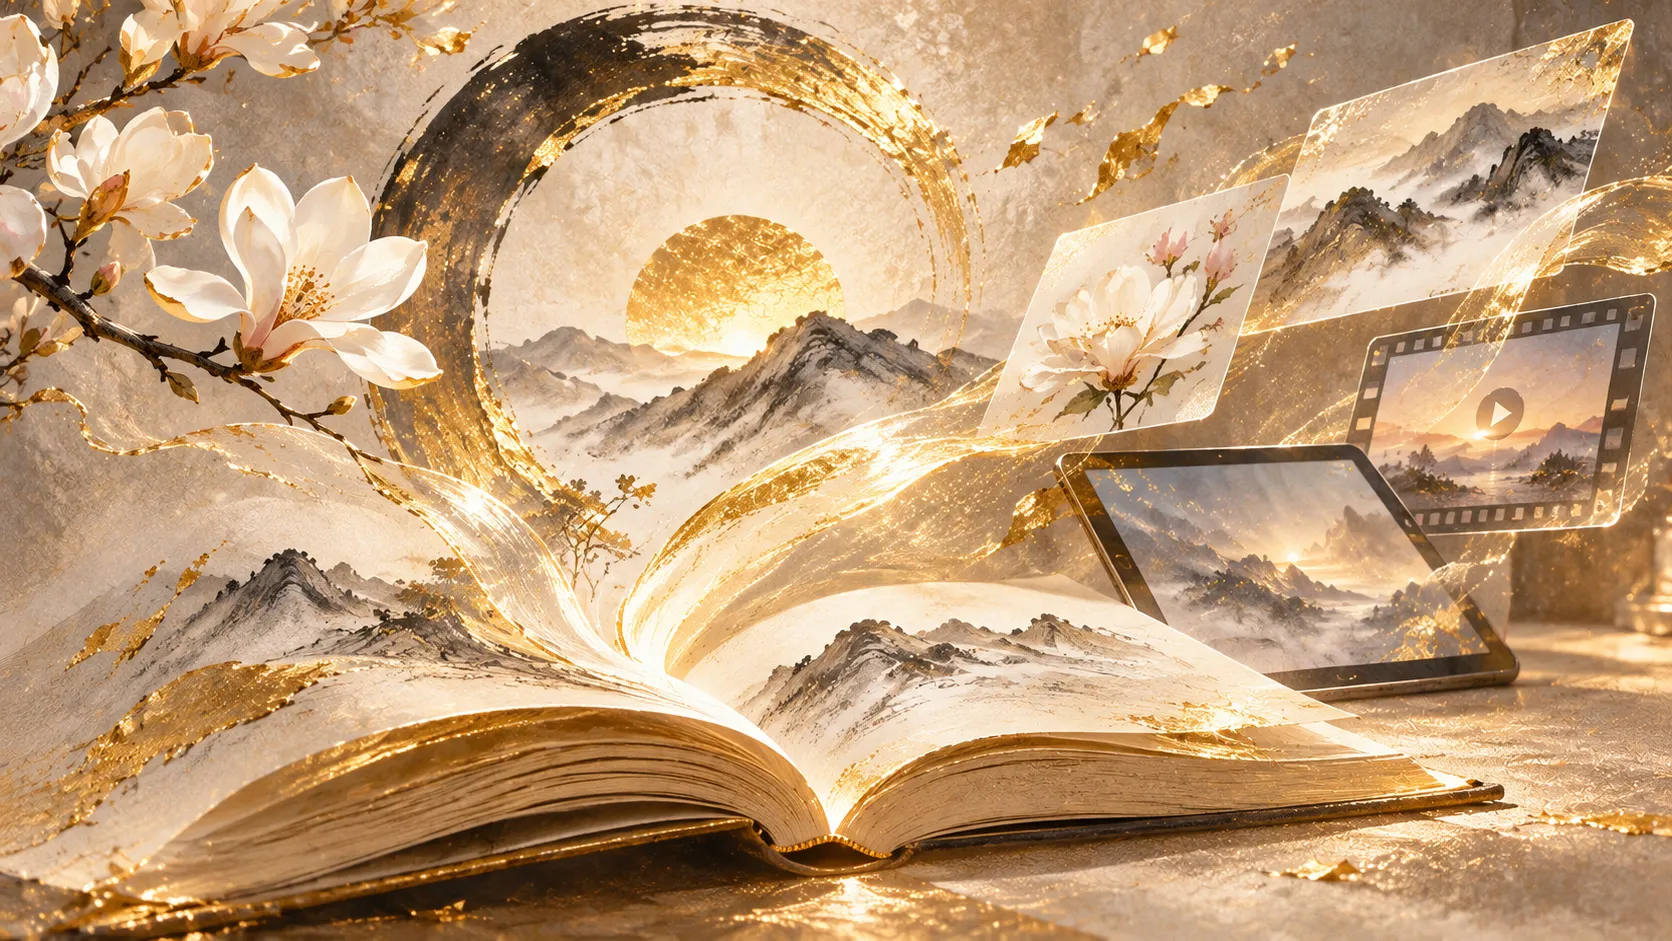
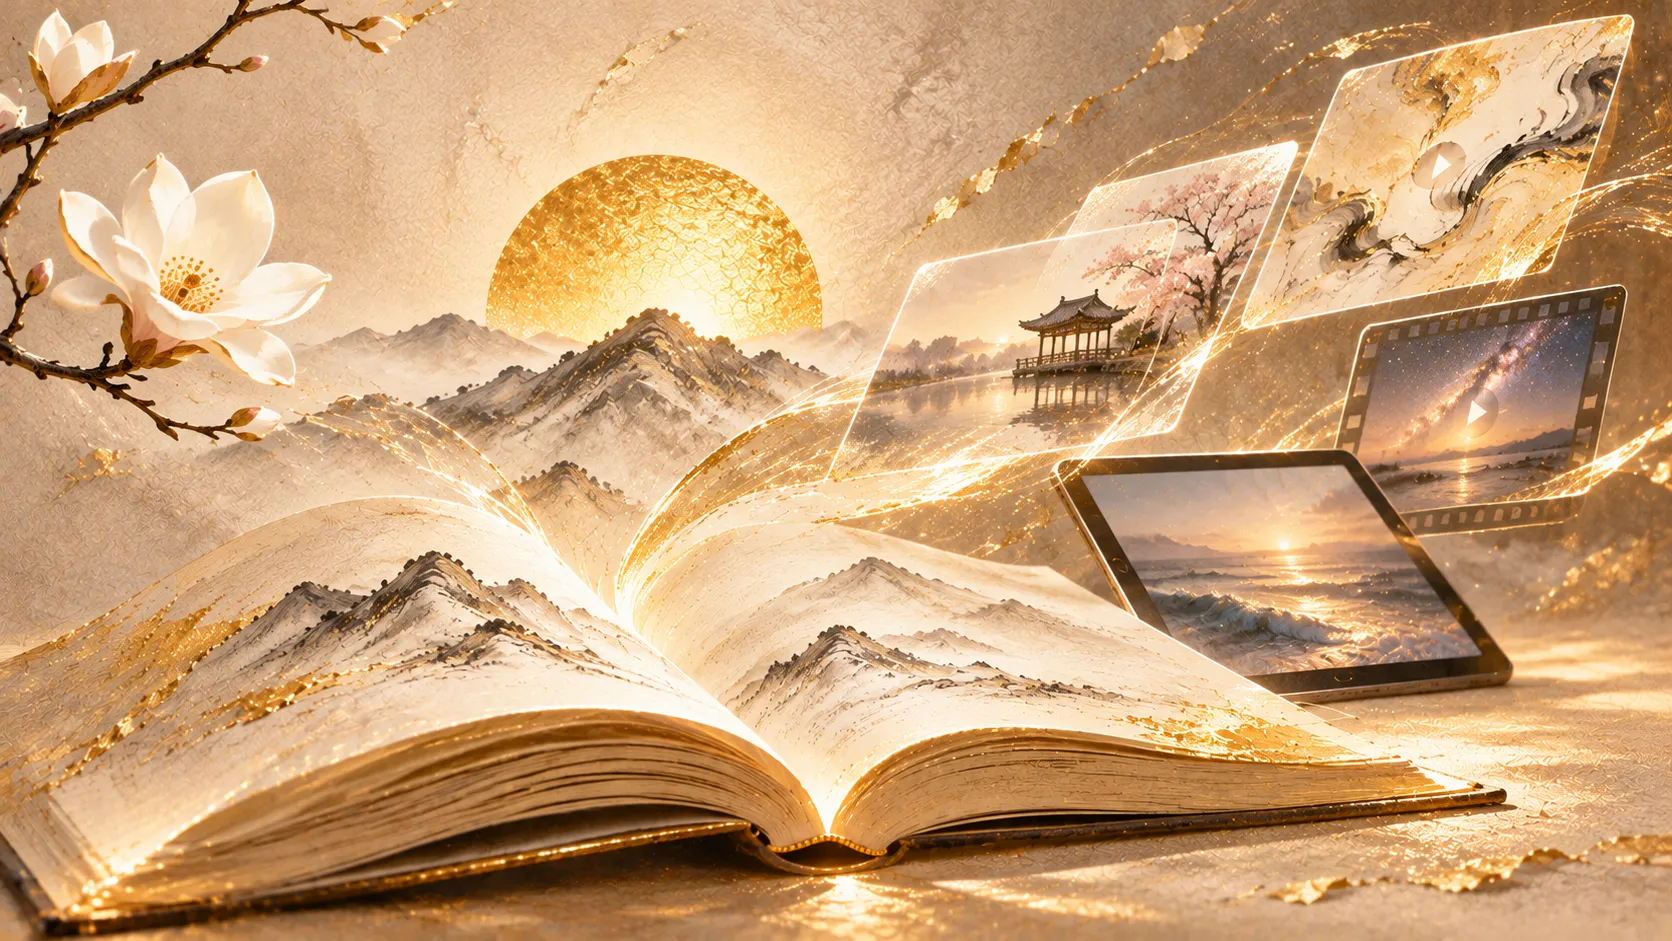
feat(about): integrate philosophy and digital mind coaching sections, update mind-to-creation image

diff --git a/src/app/about/page.tsx b/src/app/about/page.tsx
@@ -455,7 +455,7 @@ export default function AboutPage() {
               <div className="mt-8 sm:mt-10 w-full max-w-[1280px] mx-auto">
                 <div className="relative w-full aspect-[16/9] overflow-hidden rounded-2xl">
                   <Image
-                    src="/images/about/mind-to-creation.webp"
+                    src="/images/about/mind-to-creation.webp?v=2"
                     alt="마음에서 시작된 창작, 삶의 가치로 이어지다 - 자명스쿨"
                     width={1920}
                     height={1080}
@@ -822,62 +822,132 @@ export default function AboutPage() {
         </div>
       </Reveal>
 
-      {/* 2. Philosophy Section */}
-      <section className="py-20 lg:py-24">
+      {/* 2. Philosophy & Digital Mind Coaching Integrated Section */}
+      <section className="py-20 lg:py-24 border-t border-white/5">
         <div className="site-container">
-          <Reveal>
-            <div className="text-center mb-16 px-4">
-              <div className="flex items-center justify-center gap-3 mb-4 sm:mb-5">
-                <span className="w-6 sm:w-8 h-px bg-antiqueGold/40" />
-                <span className="text-antiqueGold tracking-[0.3em] text-xs sm:text-sm font-bold uppercase">
-                  OUR PHILOSOPHY
-                </span>
-                <span className="w-6 sm:w-8 h-px bg-antiqueGold/40" />
-              </div>
-              <h2 className="text-3xl sm:text-4xl md:text-5xl font-display font-bold leading-[1.4] tracking-tight text-white break-keep mb-6">
-                자명스쿨 철학
-              </h2>
-              <div className="w-20 h-1 bg-antiqueGold mx-auto rounded-full mb-8"></div>
-              <p className="text-base md:text-lg text-white/80 font-light leading-[1.75] max-w-3xl mx-auto break-keep">
-                자명스쿨은 단순한 AI 기술 교육이 아닙니다. <br />
-                우리는 <span className="text-antiqueGold font-medium">‘마음’</span>을 이해하고 그것을 콘텐츠로 표현하며 <br />
-                삶과 수익으로 연결하는 교육을 합니다.
-              </p>
-            </div>
-          </Reveal>
-
-          <div className="grid md:grid-cols-3 gap-8">
-            {[
-              {
-                title: "마음을 구조화하는 힘",
-                desc: "추상적인 감정과 무의식을 구체적인 이야기의 틀로 정제합니다.",
-                icon: <Brain className="w-12 h-12 text-[#B89B6A] drop-shadow-[0_0_12px_rgba(184,155,106,0.4)] mx-auto" strokeWidth={1.5} />,
-              },
-              {
-                title: "감정을 콘텐츠로 바꾸는 힘",
-                desc: "내면의 에너지를 AI라는 도구를 통해 세상에 없는 작품으로 창조합니다.",
-                icon: <Palette className="w-12 h-12 text-[#B89B6A] drop-shadow-[0_0_12px_rgba(184,155,106,0.4)] mx-auto" strokeWidth={1.5} />,
-              },
-              {
-                title: "AI로 표현하고 확장하는 힘",
-                desc: "기술을 넘어 나만의 브랜드를 구축하고 영향력을 확장해 나갑니다.",
-                icon: <Rocket className="w-12 h-12 text-[#B89B6A] drop-shadow-[0_0_12px_rgba(184,155,106,0.4)] mx-auto" strokeWidth={1.5} />,
-              },
-            ].map((item, idx) => (
-              <Reveal key={idx} delayMs={idx * 200}>
-                <div className="p-10 rounded-[2rem] border border-white/10 bg-white/[0.03] backdrop-blur-sm hover:border-antiqueGold/40 hover:-translate-y-1 hover:scale-[1.01] hover:bg-white/[0.05] hover:shadow-[0_20px_40px_rgba(184,155,106,0.1)] transition-all duration-500 text-center group">
-                  <div className="mb-6 group-hover:scale-110 group-hover:drop-shadow-[0_0_20px_rgba(184,155,106,0.6)] transition-all duration-500">{item.icon}</div>
-                  <h3 className="text-lg sm:text-xl font-bold mb-3 text-[#B89B6A] transition-colors duration-300">{item.title}</h3>
-                  <p className="text-sm md:text-base text-white/60 leading-[1.7]">{item.desc}</p>
+          <div className="max-w-[1280px] mx-auto space-y-10 sm:space-y-12">
+            {/* 섹션 헤더 및 상단 설명 */}
+            <Reveal>
+              <div className="text-center px-4">
+                <div className="flex items-center justify-center gap-3 mb-4 sm:mb-5">
+                  <span className="w-6 sm:w-8 h-px bg-antiqueGold/40" />
+                  <span className="text-antiqueGold tracking-[0.3em] text-xs sm:text-sm font-bold uppercase">
+                    OUR PHILOSOPHY
+                  </span>
+                  <span className="w-6 sm:w-8 h-px bg-antiqueGold/40" />
                 </div>
-              </Reveal>
-            ))}
+                <h2 className="text-3xl sm:text-4xl md:text-5xl font-display font-bold leading-[1.4] tracking-tight text-white break-keep mb-6">
+                  자명스쿨의 교육 철학
+                </h2>
+                <div className="w-20 h-1 bg-antiqueGold mx-auto rounded-full mb-8" />
+                <div className="text-base md:text-lg text-white/80 font-light leading-[1.75] max-w-3xl mx-auto break-keep space-y-1.5">
+                  <p>자명스쿨은 단순한 AI 기술 교육을 넘어,</p>
+                  <p>마음을 이해하고 그것을 콘텐츠로 표현하며</p>
+                  <p>삶의 성장과 경제적 가치로 연결하는 교육을 합니다.</p>
+                </div>
+              </div>
+            </Reveal>
+
+            {/* 세 가지 교육 철학 카드 (최대 1280px, 균등 배열) */}
+            <div className="grid md:grid-cols-3 gap-6 lg:gap-8">
+              {[
+                {
+                  title: "마음을 구조화하는 힘",
+                  desc: "추상적인 감정과 무의식을 구체적인 이야기의 틀로 정제합니다.",
+                  icon: <Brain className="w-12 h-12 text-[#B89B6A] drop-shadow-[0_0_12px_rgba(184,155,106,0.4)] mx-auto" strokeWidth={1.5} />,
+                },
+                {
+                  title: "감정을 콘텐츠로 바꾸는 힘",
+                  desc: "내면의 에너지를 AI라는 도구를 통해 세상에 없는 작품으로 창조합니다.",
+                  icon: <Palette className="w-12 h-12 text-[#B89B6A] drop-shadow-[0_0_12px_rgba(184,155,106,0.4)] mx-auto" strokeWidth={1.5} />,
+                },
+                {
+                  title: "AI로 표현하고 확장하는 힘",
+                  desc: "기술을 넘어 나만의 브랜드를 구축하고 영향력을 확장해 나갑니다.",
+                  icon: <Rocket className="w-12 h-12 text-[#B89B6A] drop-shadow-[0_0_12px_rgba(184,155,106,0.4)] mx-auto" strokeWidth={1.5} />,
+                },
+              ].map((item, idx) => (
+                <Reveal key={idx} delayMs={idx * 150}>
+                  <div className="h-full p-8 sm:p-10 rounded-[2rem] border border-white/10 bg-white/[0.03] backdrop-blur-sm hover:border-antiqueGold/40 hover:-translate-y-1 hover:scale-[1.01] hover:bg-white/[0.05] hover:shadow-[0_20px_40px_rgba(184,155,106,0.1)] transition-all duration-500 text-center group flex flex-col justify-between break-keep">
+                    <div>
+                      <div className="mb-6 group-hover:scale-110 group-hover:drop-shadow-[0_0_20px_rgba(184,155,106,0.6)] transition-all duration-500">
+                        {item.icon}
+                      </div>
+                      <h3 className="text-lg sm:text-xl font-bold mb-3 text-[#B89B6A] transition-colors duration-300">
+                        {item.title}
+                      </h3>
+                      <p className="text-sm md:text-base text-white/70 leading-[1.7]">
+                        {item.desc}
+                      </p>
+                    </div>
+                  </div>
+                </Reveal>
+              ))}
+            </div>
+
+            {/* 세 카드와 가로형 카드 사이 연결 하향 화살표 */}
+            <div className="flex justify-center text-antiqueGold/60 py-1">
+              <ArrowDown className="w-6 h-6 animate-pulse" />
+            </div>
+
+            {/* 디지털마인드코칭 가로형 강조 카드 */}
+            <Reveal delayMs={300}>
+              <div className="w-full max-w-[1280px] mx-auto py-10 sm:py-12 px-6 sm:px-12 rounded-[2rem] bg-[#141211]/90 backdrop-blur-sm border border-[#B89B6A]/30 shadow-[0_15px_40px_rgba(0,0,0,0.4)] text-center break-keep">
+                {/* 영문 라벨 */}
+                <div className="flex items-center justify-center gap-3 mb-3">
+                  <span className="w-5 h-px bg-antiqueGold/40" />
+                  <span className="text-antiqueGold tracking-[0.3em] text-xs sm:text-sm font-bold uppercase">
+                    DIGITAL MIND COACHING
+                  </span>
+                  <span className="w-5 h-px bg-antiqueGold/40" />
+                </div>
+
+                {/* 카드 메인 제목: 32px */}
+                <h3 className="text-2xl sm:text-3xl md:text-[32px] font-display font-bold leading-[1.3] text-white tracking-tight mb-4">
+                  <span className="bg-gradient-to-br from-[#E2D4BE] via-[#D6C6A8] to-[#B89B6A] bg-clip-text text-transparent">
+                    디지털마인드코칭
+                  </span>
+                </h3>
+
+                {/* 핵심 강조 문구: 24px */}
+                <p className="text-xl sm:text-2xl font-display font-bold text-white/95 leading-[1.4] mb-6">
+                  마음을 이해하고, AI로 표현하며,
+                  <br className="hidden sm:inline" />{" "}
+                  삶을 창작하는 배움의 방식
+                </p>
+
+                {/* 은은한 골드 구분선 */}
+                <div className="w-16 h-px bg-antiqueGold/30 mx-auto mb-6 sm:mb-8" />
+
+                {/* 설명 문구: 18px, 줄간격 1.75, 최대 너비 1100px */}
+                <p className="max-w-[1100px] mx-auto text-base md:text-lg text-white/80 font-light leading-[1.75]">
+                  디지털마인드코칭은 자기이해와 마음공부를 바탕으로 AI 및 디지털 창작 도구를 활용하여 자신의 감정, 생각, 재능과 가능성을 구체적인 결과물로 표현하고, 이를 자기성장과 삶의 실천으로 연결하는 교육 및 코칭 방법입니다.
+                </p>
+              </div>
+            </Reveal>
+
+            {/* 가로형 카드 외부 하단 마무리 */}
+            <Reveal delayMs={400}>
+              <div className="pt-4 sm:pt-6 text-center break-keep space-y-6 sm:space-y-8 max-w-[1100px] mx-auto">
+                {/* 일반 본문 설명: 18px */}
+                <div className="space-y-2 text-base md:text-lg text-white/80 font-light leading-[1.75]">
+                  <p>자명스쿨은 마음공부와 AI 기술을 별개의 영역으로 바라보지 않습니다.</p>
+                  <p>창작을 통해 내면을 표현하고, 표현된 결과물을 통해 다시 자신을 이해하는 선순환을 추구합니다.</p>
+                </div>
+
+                {/* 최종 강조 문구: 24px, 붓글씨 서체, 골드 그라데이션 */}
+                <div className="pt-2">
+                  <h4 className="text-xl sm:text-2xl font-display font-bold leading-[1.4] tracking-tight">
+                    <span className="bg-gradient-to-br from-[#E2D4BE] via-[#D6C6A8] to-[#B89B6A] bg-clip-text text-transparent">
+                      자신의 이야기를 작품으로,
+                      <br />
+                      자신의 가능성을 삶의 가치로.
+                    </span>
+                  </h4>
+                </div>
+              </div>
+            </Reveal>
           </div>
-          <Reveal delayMs={600}>
-            <p className="mt-16 text-center text-base md:text-lg text-antiqueGold/80 italic leading-[1.75]">
-              이 3가지를 통해 누구나 자신의 이야기를 브랜드로 만들 수 있도록 돕습니다.
-            </p>
-          </Reveal>
         </div>
       </section>
 
@@ -1111,38 +1181,14 @@ export default function AboutPage() {
             </div>
           </Reveal>
 
-          {/* Diagram Bottom Core Copy & Digital Mind Coaching Definition */}
+          {/* Diagram Bottom Core Copy */}
           <Reveal delayMs={350}>
-            <div className="max-w-3xl mx-auto space-y-8 text-center break-keep">
-              {/* Sub-label & Title */}
-              <div className="space-y-3">
-                <span className="text-antiqueGold tracking-[0.3em] text-xs sm:text-sm font-bold uppercase block">
-                  DIGITAL MIND COACHING
-                </span>
-                <h3 className="text-xl sm:text-2xl font-display font-bold text-white tracking-tight leading-[1.4]">
-                  디지털마인드코칭이란?
-                </h3>
-              </div>
-
-              {/* Main Emphasized Quote */}
-              <div className="p-6 sm:p-8 rounded-2xl bg-[#141211]/80 backdrop-blur-sm border border-[#B89B6A]/25 shadow-lg">
-                <p className="text-xl sm:text-2xl font-display font-bold text-transparent bg-clip-text bg-gradient-to-r from-[#E2D4BE] via-[#D6C6A8] to-[#B89B6A] leading-[1.4]">
-                  마음을 이해하고, AI로 표현하며, 삶을 창작하는 배움의 방식입니다.
-                </p>
-              </div>
-
-              {/* Core Definition Body Paragraphs */}
-              <div className="space-y-4 text-white/80 text-base md:text-lg leading-[1.75] font-light text-left sm:text-center">
-                <p>
-                  디지털마인드코칭은 자기이해와 마음공부를 바탕으로 AI 및 디지털 창작 도구를 활용하여 자신의 감정, 생각, 재능, 가능성을 구체적인 결과물로 표현하고, 이를 자기성장과 삶의 실천으로 연결하는 교육 및 코칭 방법입니다.
-                </p>
-                <p>
-                  단순히 기술을 익히는 것을 넘어, 나를 발견하고 나만의 이야기를 만들며, 자신이 원하는 삶의 방향을 설계하도록 돕습니다.
-                </p>
-                <p className="font-normal text-white/90 pt-1">
-                  자명스쿨은 마음공부와 AI 기술을 별개의 영역으로 바라보지 않습니다. 창작을 통해 내면을 표현하고, 표현된 결과물을 통해 다시 자신을 이해하는 선순환을 추구합니다.
-                </p>
-              </div>
+            <div className="max-w-3xl mx-auto text-center break-keep">
+              <p className="text-base md:text-lg text-white/80 font-light leading-[1.75]">
+                자명스쿨은 마음공부와 감성 창작, AI 기술이 유기적으로 만나는 교집합 속에서
+                <br className="hidden sm:inline" />{" "}
+                누구나 스스로를 밝히고 새로운 가치를 창출하도록 돕습니다.
+              </p>
             </div>
           </Reveal>
         </div>
